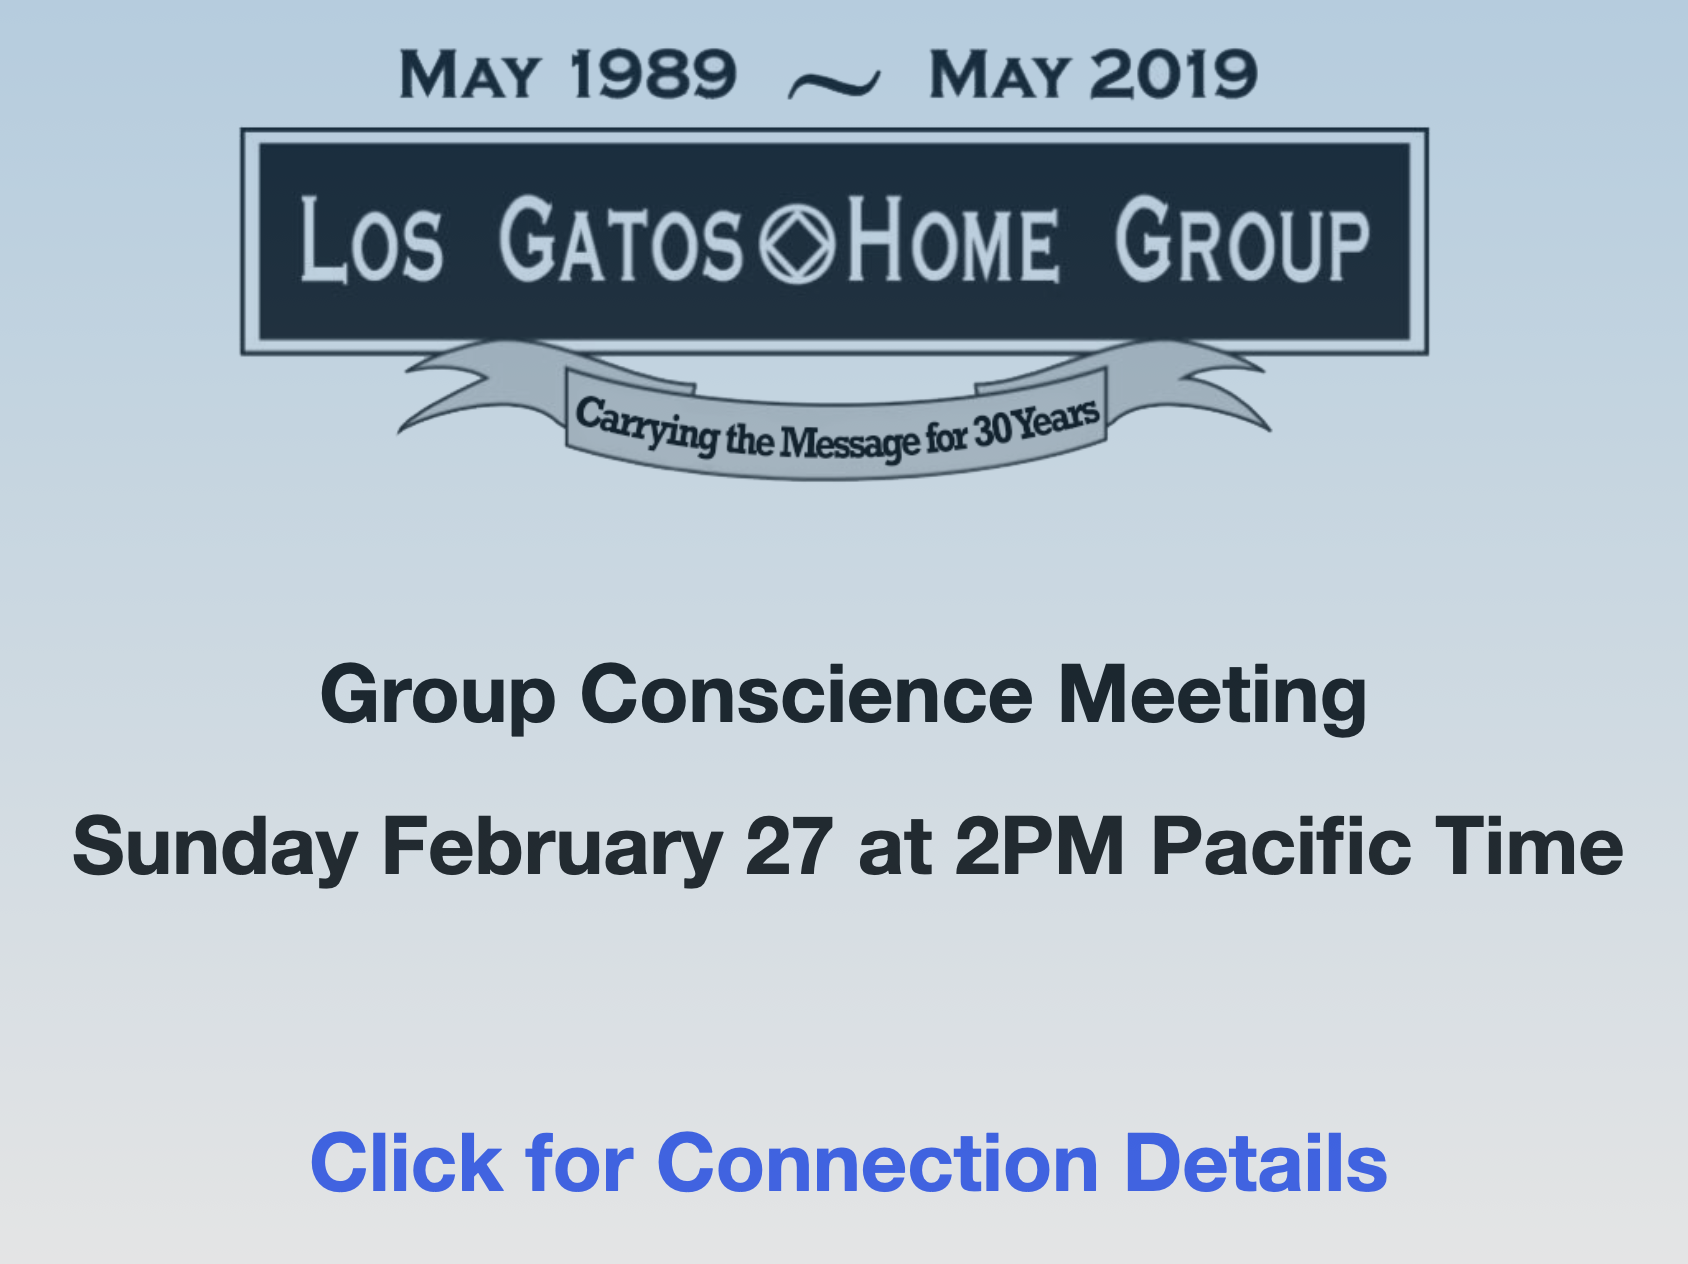
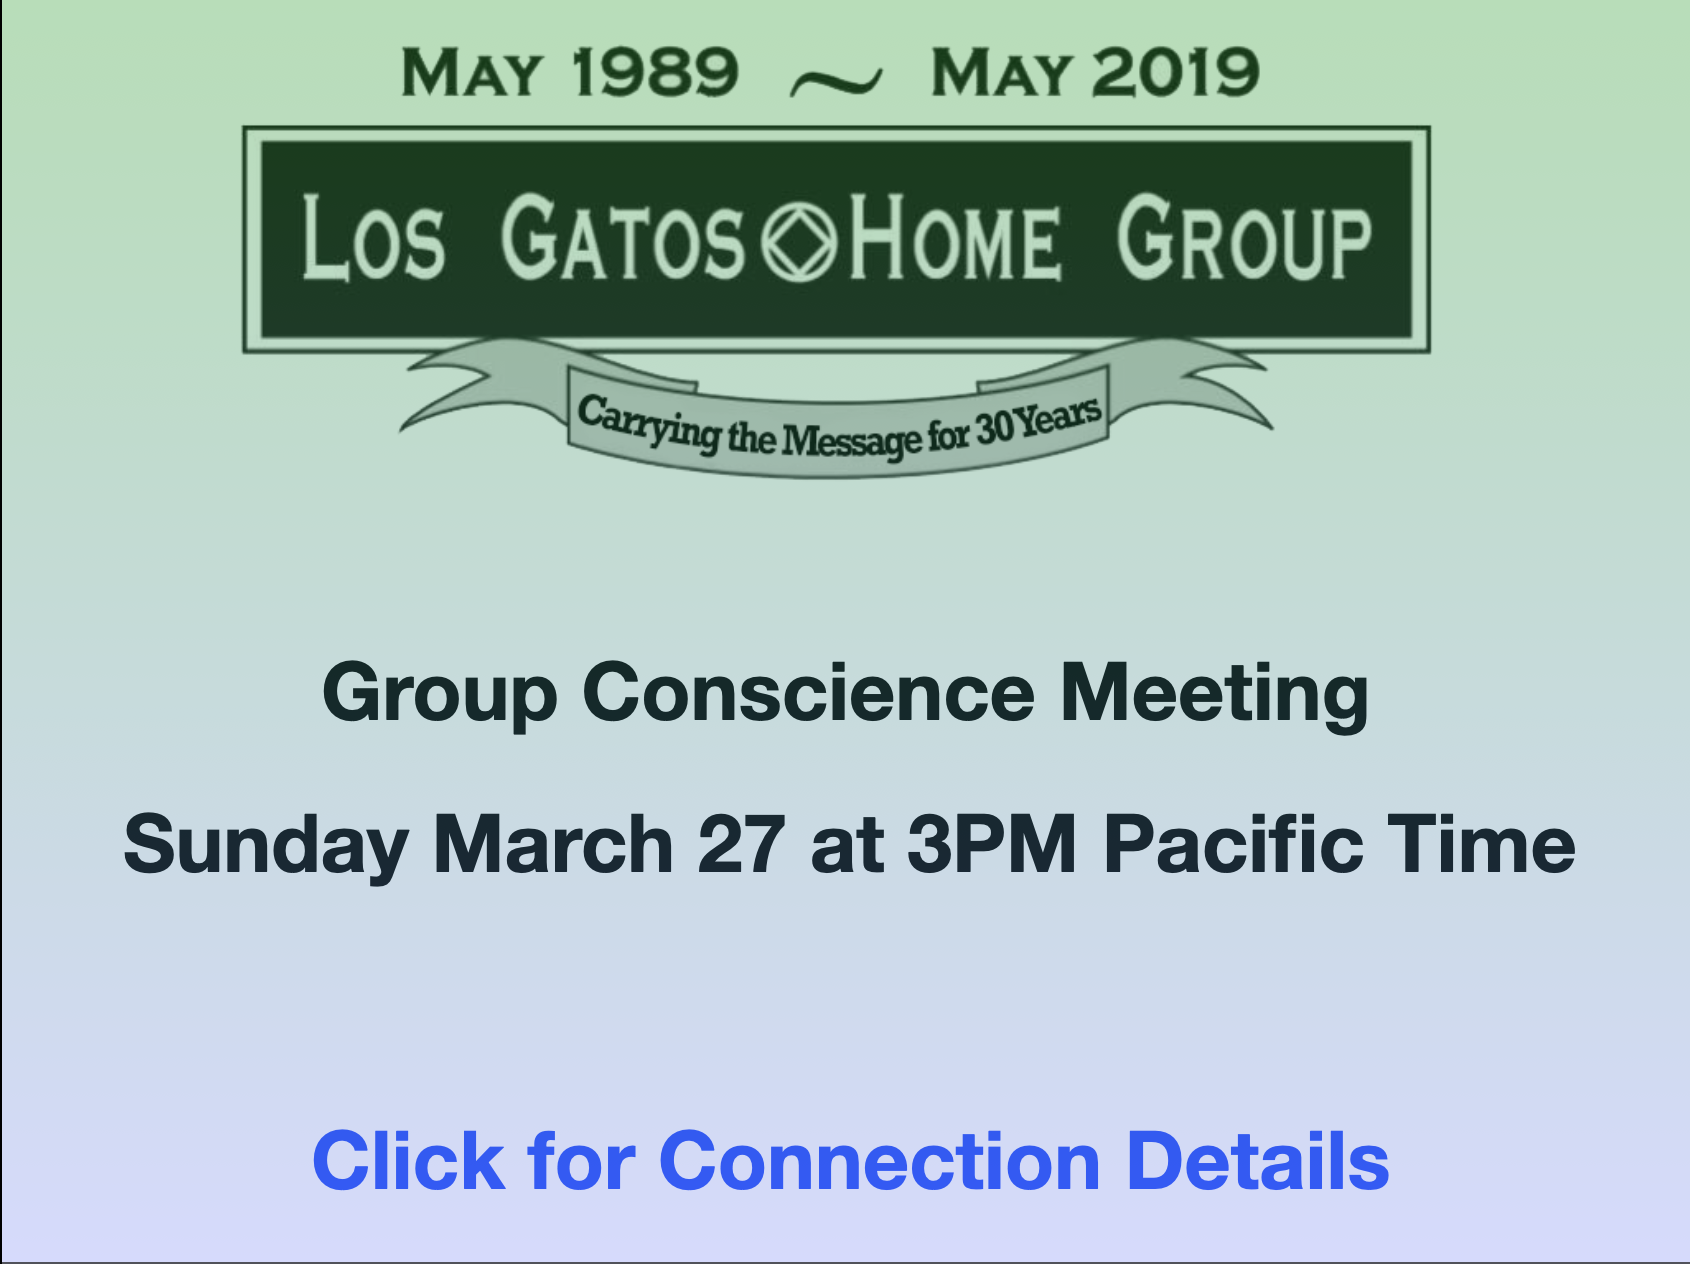
next gc

diff --git a/events/nextgc-info.html b/events/nextgc-info.html
@@ -22,7 +22,7 @@ body {
 <body>
 <h2>LGHG Group Conscience Meeting</h2>
 <pre>
-<b>Sunday February 27, 2022, 2PM Pacific Time (US and Canada)</b>
+<b>Sunday March 27, 2022, 3PM Pacific Time (US and Canada)</b>
 
 Join Zoom Meeting 
 
